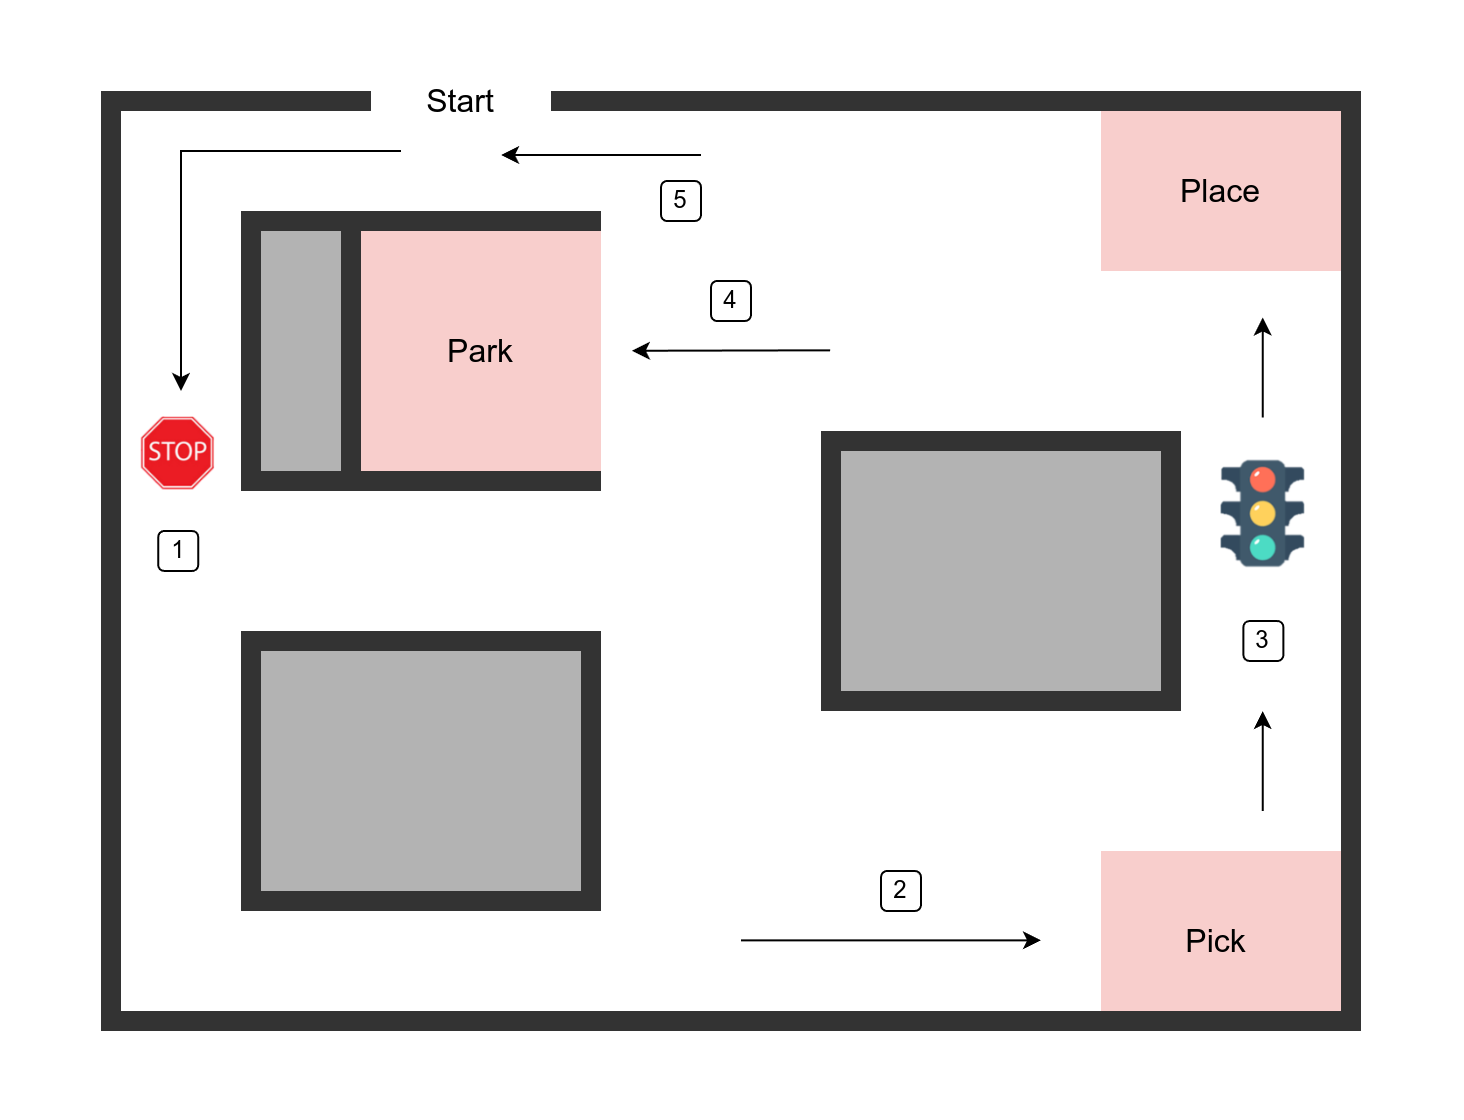
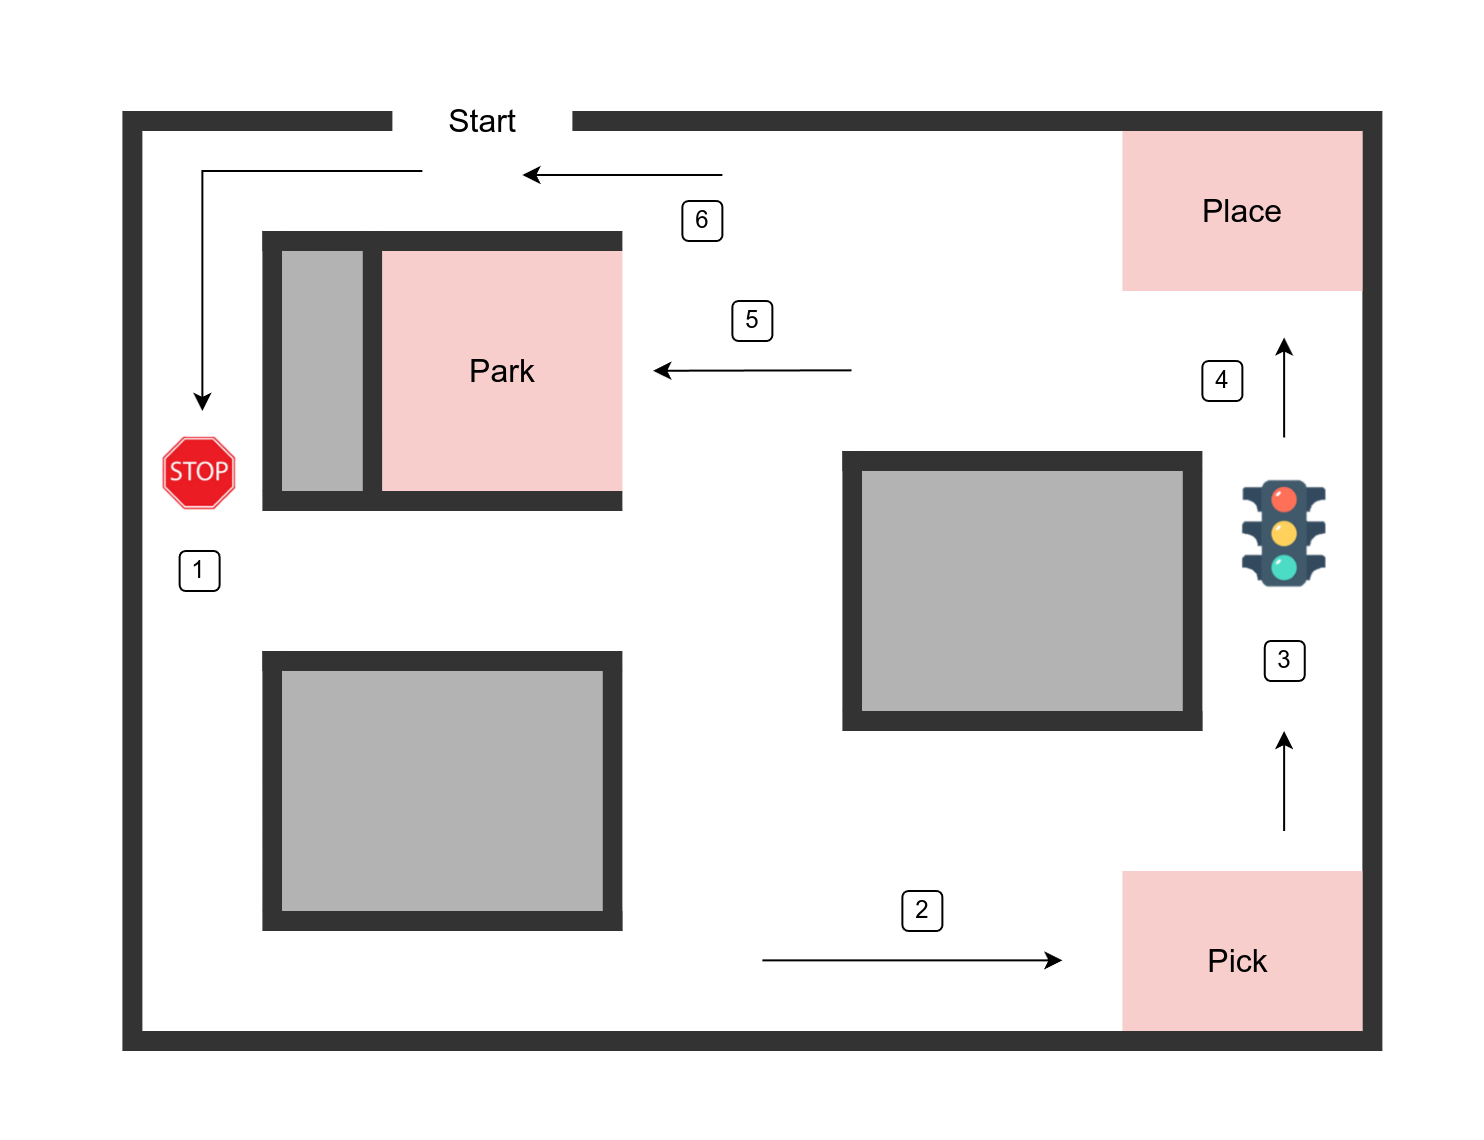
update project description

diff --git a/HW_and_Project.md b/HW_and_Project.md
@@ -30,6 +30,13 @@ description: Course Homework and Project.
 
 <br>
 
+## Assignment 3
+> **Deadline:** Dec. 16
+
+- [Check Assignment 3](https://rpai-lab.github.io/EE211/assets/hw/Assignment_3.pdf)
+
+<br>
+
 <br>
 
 <!--  -->
@@ -43,11 +50,18 @@ description: Course Homework and Project.
 # Final Project
 
 ## Project Description & Grading
-- [Check Here](https://rpai-lab.github.io/EE211/assets/project/project_description)
+<!-- - [Check Here](https://rpai-lab.github.io/EE211/assets/project/project_description) -->
 <!-- - [Check Here](http://127.0.0.1:4000/EE211/assets/project/project_description) -->
+<img src="https://rpai-lab.github.io/EE211/assets/images/proj_description_pic1.png" alt="proj_pic1" style="zoom:50%;" />
 
-<!-- ## Grading -->
-<!-- - [Not released yet](#) -->
+
+1. 从起点移动到stop标志处，看到此标识需停止前行，移开标识后再继续移动（15分）
+2. 导航至停在Pick区，抓取目标方块（35分）
+1. 导航至红绿灯处，检测到红灯停止前进，待绿灯亮后继续前行（15分）
+4. 导航至Place区，将物块放置在此处（15分）
+5. 导航到Park区，停留5秒（10分）
+7. 离开Park区，导航回到起点（10分）
+
 
 ## Resources
 
